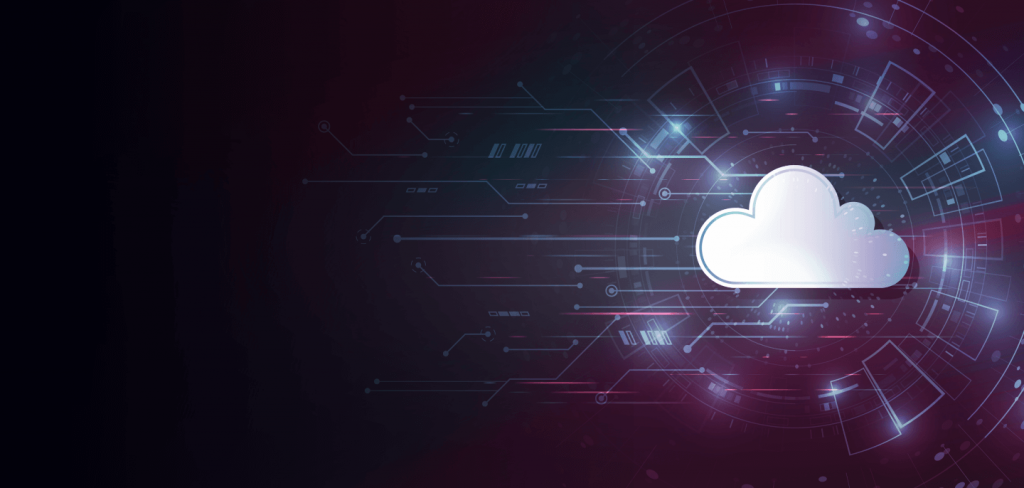
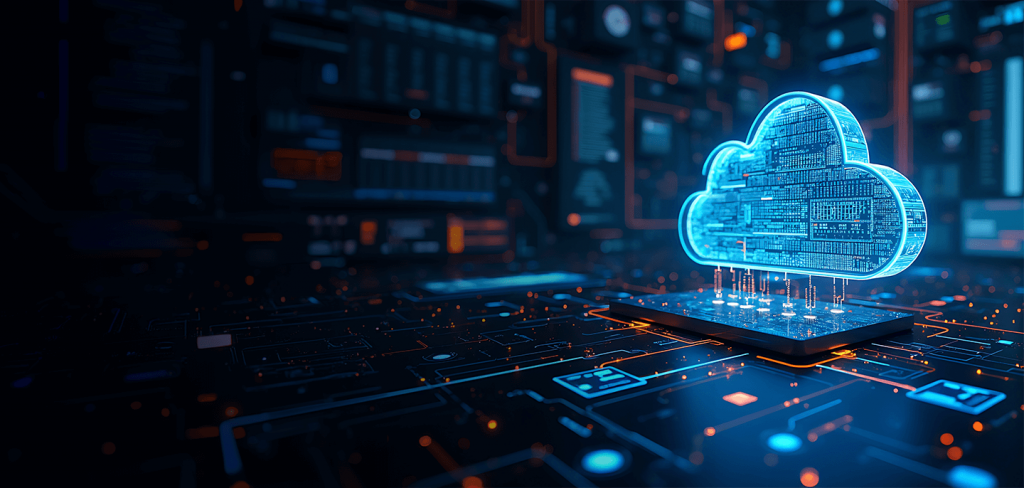
final

diff --git a/src/sections/Hero.jsx b/src/sections/Hero.jsx
@@ -7,7 +7,7 @@ import Notification from "../components/Notification";
 import PlusSvg from "../assets/svg/PlusSvg";
 import { Swiper, SwiperSlide } from 'swiper/react';
 import 'swiper/css';
-import { Navigation, Pagination, Scrollbar, A11y } from 'swiper/modules';
+import { Navigation, Pagination, Scrollbar, A11y, EffectFade } from 'swiper/modules';
 import 'swiper/css/navigation';
 import 'swiper/css/pagination';
 import 'swiper/css/scrollbar';
@@ -65,29 +65,18 @@ const Hero = () => {
     return (
         <Section className=" " crosses crossesOffset="lg:translate-y-[5.25rem]" customPaddings id="hero">
             <div className="relative" ref={parallaxRef}>
-                {/* <div className="relative z-1 max-w-[62rem] mx-auto text-center mb-[3.875rem] md:mb-20 lg:mb-[6.25rem]">
-                    <h1 className="h1 mb-6">
-                        Explore the Possibilities of&nbsp;Developement&nbsp;Connect with {` `}
-                        <span className="inline-block relative">
-                            Quantum Brix <img src={curve} className="absolute top-full left-0 w-full xl:-mt-2" width={624} height={28} alt="" />
-                        </span>
-                    </h1>
-                    <p className="body-1 max-w-3xl mx-auto mb-6 text-n-2 lg:mb-8">
-                    Quantum Brix delivers expert SAP and Oracle solutions, transforming enterprise systems with innovation, efficiency, scalability, and intelligent business insights</p>
-                    <Button href="#pricing" white>
-                        Get started
-                    </Button>
-                </div> */}
                 <Swiper
                     // install Swiper modules
-                    modules={[Navigation, Pagination, Scrollbar, A11y, Autoplay]}
+                    modules={[Navigation, Pagination, Scrollbar, A11y, Autoplay, EffectFade]}
                     spaceBetween={50}
                     slidesPerView={1}
+                    effect={'fade'}
+
                     // navigation    
-                    // autoplay={{
-                    //     delay: 5000, // 2 seconds
-                    //     disableOnInteraction: false, // Keeps autoplay running even after user interaction
-                    // }}
+                    autoplay={{
+                        delay: 5000, // 2 seconds
+                        disableOnInteraction: false, // Keeps autoplay running even after user interaction
+                    }}
                     pagination={{ clickable: true }}
                     // scrollbar={{ draggable: true }}
                     onSwiper={(swiper) => console.log(swiper)}
@@ -95,70 +84,70 @@ const Hero = () => {
                     className="h-[57vh] md:h-[60vh] lg:h-[90vh]"
                 >
                     <SwiperSlide className="h-[200px] flex items-center justify-center">
-                        <div className="relative w-[100vw] h-[90vh] bg-cover bg-center animate-scale" style={{ backgroundImage: `url(${FirstSlide})` }}>
-                            <div className="absolute inset-0 flex flex-col items-start justify-center text-center z-10 lg:m-[100px]">
-                                {/* <div className="mb-6 text-white text-[6rem]">
-                                    Explore the Possibilities of&nbsp;Developement&nbsp;Connect with {` `}
-                                    <span className="inline-block relative">
-                                        Quantum Brix <img src={curve} className="absolute top-full left-0 w-full xl:-mt-2" width={624} height={28} alt="" />
-                                    </span>
-                                </div> */}
-                                <p className="w-[40vw] text-white font-bold text-[2.5rem] md:text-[3.5rem] lg:text-[2.5rem] mb-6 leading-relaxed text-left">
-                                    Explore the Possibilities of Developement Connect with Quantum Brix
+                        <div className="relative w-[100vw] h-[57vh] md:h-[60vh] lg:h-[90vh]">
+                            {/* Render the image using <img> */}
+                            <img
+                                src={FirstSlide}
+                                alt="Slide Image"
+                                className="w-[100vw] h-[57vh] md:h-[60vh] lg:h-[90vh] object-fit"
+                            />
+                            {/* Content positioned absolutely over the image */}
+                            <div className="absolute inset-0 bg-black/10 flex flex-col items-start justify-center text-center z-10 p-4 lg:m-[100px]">
+                                <p className="w-full md:w-[45vw] text-white font-bold text-[1.1rem] sm:text-[2rem] md:text-[3.5rem] lg:text-[2.5rem] mb-4 leading-relaxed text-left">
+                                    Explore the Possibilities of Development Connect with Quantum Brix
                                 </p>
-                                <p className="w-[40vw] text-white/70 font-bold text-[2.5rem] md:text-[3.5rem] lg:text-[1.5rem] mb-6 leading-relaxed text-left">
+                                <p className="w-full md:w-[45vw] text-white/70 text-[0.9rem] sm:text-[1rem] md:text-[2rem] lg:text-[1rem] mb-4 leading-relaxed text-left">
                                     Quantum Brix delivers expert SAP and Oracle solutions, transforming enterprise systems with innovation, efficiency, scalability, and intelligent business insights
                                 </p>
-                                <button href="#pricing" className="lg:text-[1rem] lg:p-3 bg-red-600 rounded">
+                                <button href="#pricing" className="text-[0.875rem] sm:text-[1rem] p-2 sm:p-3 bg-red-600 rounded">
                                     Get started
                                 </button>
                             </div>
                         </div>
-
                     </SwiperSlide>
                     <SwiperSlide className="h-[200px] flex items-center justify-center">
-                        <div className="relative w-[100vw] h-[90vh] bg-cover bg-center animate-scale" style={{ backgroundImage: `url(${SecondSlide})` }}>
-                            <div className="absolute inset-0 flex flex-col items-start justify-center text-center z-10 lg:m-[100px]">
-                                {/* <div className="mb-6 text-white text-[6rem]">
-                                    Explore the Possibilities of&nbsp;Developement&nbsp;Connect with {` `}
-                                    <span className="inline-block relative">
-                                        Quantum Brix <img src={curve} className="absolute top-full left-0 w-full xl:-mt-2" width={624} height={28} alt="" />
-                                    </span>
-                                </div> */}
-                                <p className="w-[40vw] text-white font-bold text-[2.5rem] md:text-[3.5rem] lg:text-[2.5rem] mb-6 leading-relaxed text-left">
-                                    Explore the Possibilities of Developement Connect with Quantum Brix
+                        <div className="relative w-[100vw] h-[57vh] md:h-[60vh] lg:h-[90vh]">
+                            {/* Render the image using <img> */}
+                            <img
+                                src={SecondSlide}
+                                alt="Slide Image"
+                                className="w-[100vw] h-[57vh] md:h-[60vh] lg:h-[90vh] object-fit"
+                            />
+                            {/* Content positioned absolutely over the image */}
+                            <div className="absolute inset-0 bg-black/10 flex flex-col items-start justify-center text-center z-10 p-4 lg:m-[100px]">
+                                <p className="w-full md:w-[45vw] text-white font-bold text-[1.1rem] sm:text-[2rem] md:text-[3.5rem] lg:text-[2.5rem] mb-4 leading-relaxed text-left">
+                                    Explore the Possibilities of Development Connect with Quantum Brix
                                 </p>
-                                <p className="w-[40vw] text-white/70 font-bold text-[2.5rem] md:text-[3.5rem] lg:text-[1.5rem] mb-6 leading-relaxed text-left">
+                                <p className="w-full md:w-[45vw] text-white/70 text-[0.9rem] sm:text-[1rem] md:text-[2rem] lg:text-[1rem] mb-4 leading-relaxed text-left">
                                     Quantum Brix delivers expert SAP and Oracle solutions, transforming enterprise systems with innovation, efficiency, scalability, and intelligent business insights
                                 </p>
-                                <button href="#pricing" className="lg:text-[1rem] lg:p-3 bg-red-600 rounded">
+                                <button href="#pricing" className="text-[0.875rem] sm:text-[1rem] p-2 sm:p-3 bg-red-600 rounded">
                                     Get started
                                 </button>
                             </div>
                         </div>
-
                     </SwiperSlide>
                     <SwiperSlide className="h-[200px] flex items-center justify-center">
-                        <div className="relative w-[100vw] h-[90vh] bg-cover bg-center animate-scale" style={{ backgroundImage: `url(${ThirdSlide})` }}>
-                            <div className="absolute inset-0 flex flex-col items-start justify-center text-center z-10 lg:m-[100px]">
-                                {/* <div className="mb-6 text-white text-[6rem]">
-                                    Explore the Possibilities of&nbsp;Developement&nbsp;Connect with {` `}
-                                    <span className="inline-block relative">
-                                        Quantum Brix <img src={curve} className="absolute top-full left-0 w-full xl:-mt-2" width={624} height={28} alt="" />
-                                    </span>
-                                </div> */}
-                                <p className="w-[40vw] text-white font-bold text-[2.5rem] md:text-[3.5rem] lg:text-[2.5rem] mb-6 leading-relaxed text-left">
-                                    Explore the Possibilities of Developement Connect with Quantum Brix
+                        <div className="relative w-[100vw] h-[57vh] md:h-[60vh] lg:h-[90vh]">
+                            {/* Render the image using <img> */}
+                            <img
+                                src={ThirdSlide}
+                                alt="Slide Image"
+                                className="w-[100vw] h-[57vh] md:h-[60vh] lg:h-[90vh] object-fit"
+                            />
+                            {/* Content positioned absolutely over the image */}
+                            <div className="absolute inset-0 bg-black/10 flex flex-col bg-black/40 items-start justify-center text-center z-10 p-4 lg:m-[100px]">
+                                <p className="w-full md:w-[45vw] text-white font-bold text-[1.1rem] sm:text-[2rem] md:text-[3.5rem] lg:text-[2.5rem] mb-4 leading-relaxed text-left">
+                                    Explore the Possibilities of Development Connect with Quantum Brix
                                 </p>
-                                <p className="w-[40vw] text-white/70 font-bold text-[2.5rem] md:text-[3.5rem] lg:text-[1.5rem] mb-6 leading-relaxed text-left">
+                                <p className="w-full md:w-[45vw] text-white/70 text-[0.9rem] sm:text-[1rem] md:text-[2rem] lg:text-[1rem] mb-4 leading-relaxed text-left">
                                     Quantum Brix delivers expert SAP and Oracle solutions, transforming enterprise systems with innovation, efficiency, scalability, and intelligent business insights
                                 </p>
-                                <button href="#pricing" className="lg:text-[1rem] lg:p-3 bg-red-600 rounded">
+                                <button href="#pricing" className="text-[0.875rem] sm:text-[1rem] p-2 sm:p-3 bg-red-600 rounded">
                                     Get started
                                 </button>
                             </div>
                         </div>
-
                     </SwiperSlide>
                     {/* <SwiperSlide className="h-[500px] flex items-center justify-center">Slide 3</SwiperSlide>
                     <SwiperSlide className="h-[500px] flex items-center justify-center">Slide 4</SwiperSlide> */}

diff --git a/src/components/Navbar.jsx b/src/components/Navbar.jsx
@@ -4,7 +4,7 @@ import { disablePageScroll, enablePageScroll } from "scroll-lock";
 import { background, quantum2 } from "../assets";
 import Button from "./Button";
 import MenuSvg from "../assets/svg/MenuSvg";
-import { useState } from "react";
+import { useEffect, useState } from "react";
 import { Menu, MenuButton, MenuItem, SubMenu } from "@szhsin/react-menu";
 import { RxDotFilled } from "react-icons/rx";
 import { IoMdArrowDropdown } from "react-icons/io";
@@ -62,6 +62,7 @@ const Header = () => {
     const navigate = useNavigate()
     const [hovered, setHovered] = useState(false);
     const [hoveredSubMenu, setHoveredSubMenu] = useState(null); // Add this state
+    const [scrolled, setScrolled] = useState(false);
 
     const toggleNavigation = () => {
         if (openNavigation) {
@@ -80,8 +81,26 @@ const Header = () => {
         setOpenNavigation(false);
     };
 
+     // Track scroll position
+     useEffect(() => {
+        const handleScroll = () => {
+            if (window.scrollY > 500) {
+                setScrolled(true);
+            } else {
+                setScrolled(false);
+            }
+        };
+
+        window.addEventListener("scroll", handleScroll);
+        return () => {
+            window.removeEventListener("scroll", handleScroll);
+        };
+    }, []);
+
     return (
-        <div className={`fixed top-0 left-0 w-full z-50 border-b border-n-6 bg-white/0  lg:backdrop-blur-sm ${openNavigation ? "bg-n-8" : "bg-n-8/90 backdrop-blur-sm"}`}>
+        <div className={`fixed top-0 left-0 w-full z-50 border-b border-n-6 ${
+            scrolled ? "bg-white shadow-lg" : "bg-white/0"
+        }  lg:backdrop-blur-sm ${openNavigation ? "bg-n-8" : "bg-n-8/90 backdrop-blur-sm"}`}>
             <div className="flex items-center px-5 lg:px-7.5 xl:px-10 max-lg:py-4">
                 <a className="block w-[12rem] xl:mr-8">
                     <img
@@ -94,9 +113,9 @@ const Header = () => {
                 </a>
 
                 <nav className={`${openNavigation ? "flex" : "hidden"} fixed top-[5rem] left-0 right-0 bottom-0 bg-n-8 lg:static lg:flex lg:mx-auto lg:bg-transparent lg:p-6 lg:text-white`}>
-                    <div className="relative z-2 flex flex-col items-center justify-center m-auto lg:flex-row gap-10 text-xl text-blue-900 font-bold">
-                        <div className="cursor-pointer hover:text-red-500 text-white" onClick={() => navigate("/")}>{navigation[0].title}</div>
-                        <Menu menuButton={<MenuButton className="flex items-center gap-1 cursor-pointer hover:text-red-500 text-white">{navigation[1].title}<IoMdArrowDropdown className="text-black text-lg" />
+                    <div className="relative z-2 flex flex-col items-center justify-center m-auto lg:flex-row gap-10 text-xl font-bold">
+                        <div className={`"cursor-pointer hover:text-red-500" ${scrolled ? "text-black" : "text-white"}`} onClick={() => navigate("/")}>{navigation[0].title}</div>
+                        <Menu menuButton={<MenuButton className={`flex items-center gap-1 cursor-pointer hover:text-red-500 ${scrolled ? "text-black" : "text-white"}`}>{navigation[1].title}<IoMdArrowDropdown className="text-black text-lg" />
                         </MenuButton>} transition>
 
                             <SubMenu label="SAP Solution Services" className="hover:text-red-500">
@@ -147,9 +166,9 @@ const Header = () => {
                                 <MenuItem className="hover:text-red-500"><Link to={"/services/aws-service"}>AWS Migration</Link></MenuItem>
                             </SubMenu>
                         </Menu>
-                        <div className="cursor-pointer hover:text-red-500 text-white" onClick={() => navigate('/portfolio')}>{navigation[2].title}</div>
-                        <div className="cursor-pointer hover:text-red-500 text-white" onClick={() => navigate('/about-us')}>{navigation[3].title}</div>
-                        <div className="cursor-pointer hover:text-red-500 text-white" onClick={() => navigate('/career')}>{navigation[4].title}</div>
+                        <div className={`"cursor-pointer hover:text-red-500" ${scrolled ? "text-black" : "text-white"}`} onClick={() => navigate('/portfolio')}>{navigation[2].title}</div>
+                        <div className={`"cursor-pointer hover:text-red-500" ${scrolled ? "text-black" : "text-white"}`} onClick={() => navigate('/about-us')}>{navigation[3].title}</div>
+                        <div className={`"cursor-pointer hover:text-red-500" ${scrolled ? "text-black" : "text-white"}`} onClick={() => navigate('/career')}>{navigation[4].title}</div>
 
 
                     </div>
@@ -173,7 +192,7 @@ const Header = () => {
                     </div>
                 </nav>
 
-                <a href="#signup" className=" text-white button hidden mr-8 !text-lg !text-black-900 text-white/50 transition-colors hover:text-purple-900 lg:block lg:text-white">
+                <a href="#signup" className={`text-white button hidden mr-8 !text-lg !text-black-900 text-white/50 transition-colors hover:text-purple-900 lg:block  ${scrolled ? "lg:text-black" : "lg:text-white"}`}>
                     New account
                 </a>
                 <Button className="hidden lg:flex !text-medium" href="#login">

diff --git a/src/sections/Benefits.jsx b/src/sections/Benefits.jsx
@@ -17,16 +17,16 @@ const Services = () => {
               </p>
               <div className="flex gap-8 text-center mb-6">
                 <div>
-                  <p className="text-2xl font-bold text-black">450+</p>
-                  <p className="font-semibold text-black">Customers</p>
+                  <p className="text-[15px] md:text-2xl font-bold text-black">450+</p>
+                  <p className="text-[15px] md:text-2xl font-semibold text-black">Customers</p>
                 </div>
                 <div>
-                  <p className="text-2xl font-bold text-black">400+</p>
-                  <p className="font-semibold text-black">Specialists</p>
+                  <p className="text-[15px] md:text-2xl font-bold text-black">400+</p>
+                  <p className="text-[15px] md:text-2xl font-semibold text-black">Specialists</p>
                 </div>
                 <div>
-                  <p className="text-2xl font-bold text-black">4000+</p>
-                  <p className="font-semibold text-black">Years of collective experience</p>
+                  <p className="text-[15px] md:text-2xl font-bold text-black">4000+</p>
+                  <p className="text-[15px] md:text-2xl font-semibold text-black">Years of collective experience</p>
                 </div>
               </div>
               <h3 className="text-xl font-semibold mb-2 text-blue-900">Our Partners</h3>
@@ -42,7 +42,7 @@ const Services = () => {
                 ))}
               </div>
             </div>
-            <div className="w-1/3 bg-white shadow p-4 rounded border">
+            <div className="w-[90vw]  md:w-1/3 bg-white shadow p-4 rounded border">
               <h3 className="text-lg font-bold text-blue-900 mb-4">What We Offer</h3>
               <ul className="list-disc list-inside space-y-2 text-sm text-gray-800">
                 <li>SAP Business One Implementation & Consulting</li>
@@ -139,7 +139,7 @@ const Services = () => {
               ))}
             </div>
           </div>
-          <div className="w-1/3 bg-white shadow p-4 rounded border">
+          <div className="w-[90vw]  md:w-1/3 bg-white shadow p-4 rounded border">
             <h3 className="text-lg font-bold text-blue-900 mb-4">What We Offer</h3>
             <ul className="list-disc list-inside space-y-2 text-sm text-gray-800">
               <li>AWS Deployment & Management</li>
@@ -187,7 +187,7 @@ const Services = () => {
               ))}
             </div>
           </div>
-          <div className="w-1/3 bg-white shadow p-4 rounded border">
+          <div className="w-[90vw]  md:w-1/3 bg-white shadow p-4 rounded border">
             <h3 className="text-lg font-bold text-blue-900 mb-4">What We Offer</h3>
             <ul className="list-disc list-inside space-y-2 text-sm text-gray-800">
               <li>Installation & Configuration</li>
@@ -208,16 +208,16 @@ const Services = () => {
   };
 
   return (
-    <div className="p-8">
+    <div className="p-4">
         <div className="text-center">
-        <h1 className="text-4xl font-bold !text-center text-blue-900 mb-2 inline-block after:content-[''] after:block after:w-full after:h-1 after:bg-gradient-to-r after:from-red-500 after:to-transparent after:mt-2">
+        <h1 className="text-4xl mb-[35px] font-bold !text-center text-blue-900 mb-2 inline-block after:content-[''] after:block after:w-full after:h-1 after:bg-gradient-to-r after:from-red-500 after:to-transparent after:mt-2">
             Our Services
         </h1>
         </div>
     
       {/* <div className="h-1 w-16 bg-red-500 mx-auto mb-8"></div> */}
-      <div className="flex">
-        <div className="w-48 flex flex-col space-y-2">
+      <div className="flex flex-col md:flex-row gap-4">
+        <div className="w-[90vw]  md:w-48 flex flex-col space-y-2">
           {tabs.map((tab) => (
             <button
               key={tab}
@@ -230,7 +230,7 @@ const Services = () => {
             </button>
           ))}
         </div>
-        <div className="flex-1 pl-8">{renderContent()}</div>
+        <div className="flex-1 md:pl-8">{renderContent()}</div>
       </div>
     </div>
   );

diff --git a/src/sections/Roadmap.jsx b/src/sections/Roadmap.jsx
@@ -65,7 +65,7 @@ const Roadmap = () => (
                                         </div>
                                     </div> */}
 
-                                    <div className="mb-10 -my-10 -mx-15">
+                                    <div className="mb-10 my-10 -mx-15">
                                         <img className="w-full" src={item.imageUrl} width={628} height={426} alt={item.title} />
                                     </div>
                                     {/* <h4 className="h4 mb-4">{item.title}</h4>
